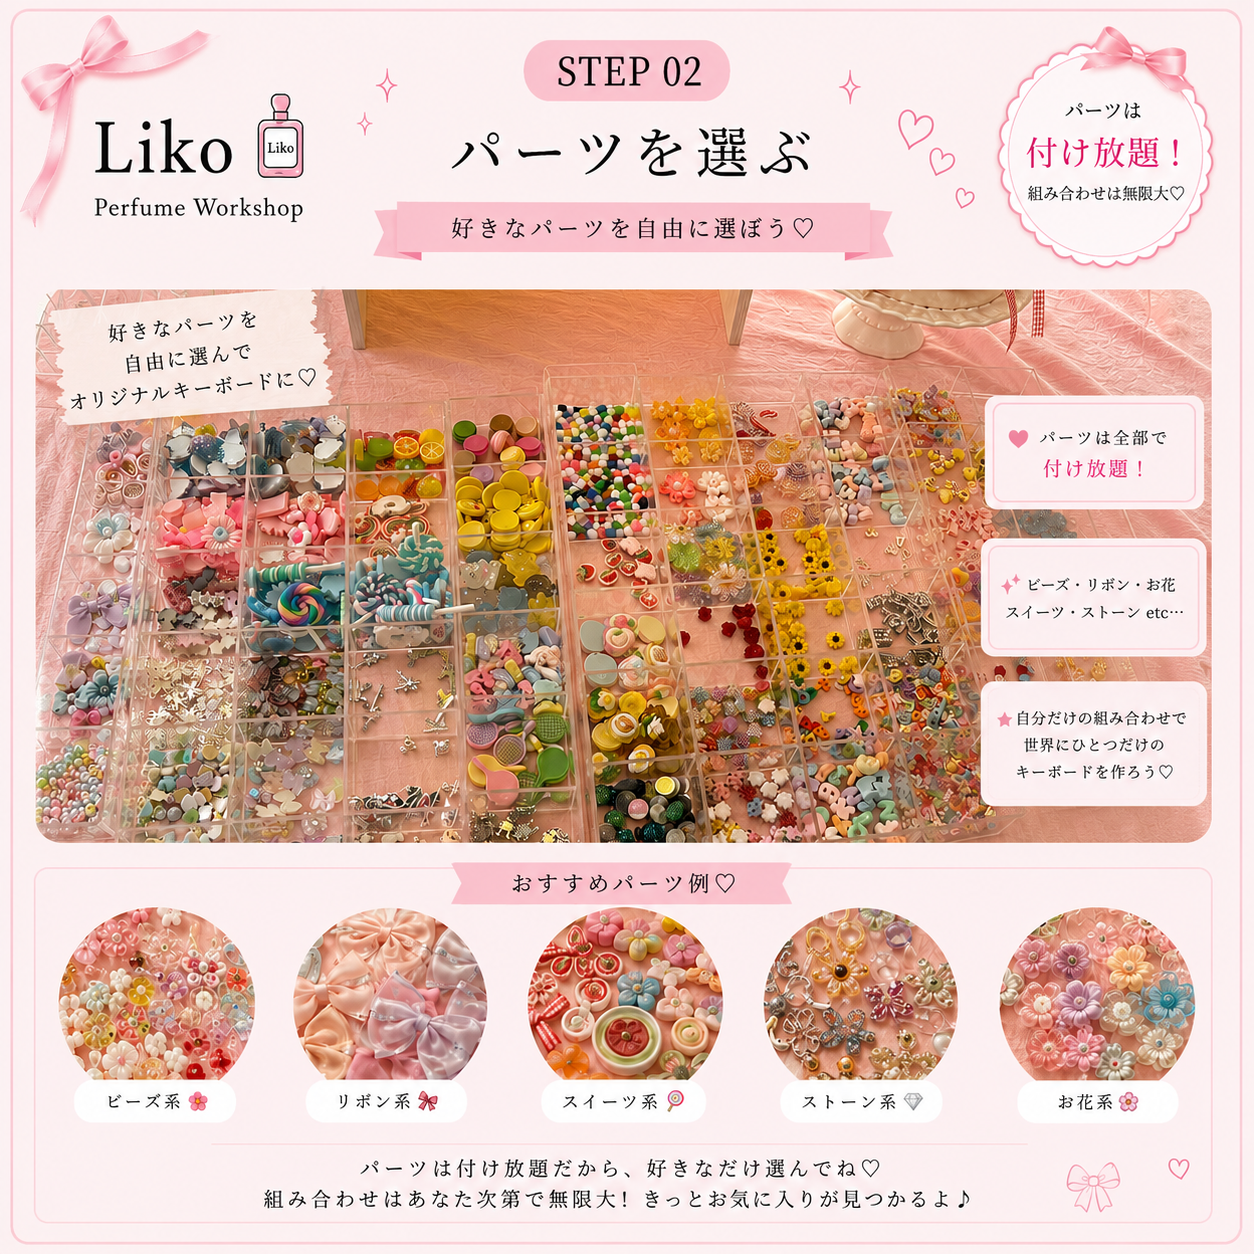
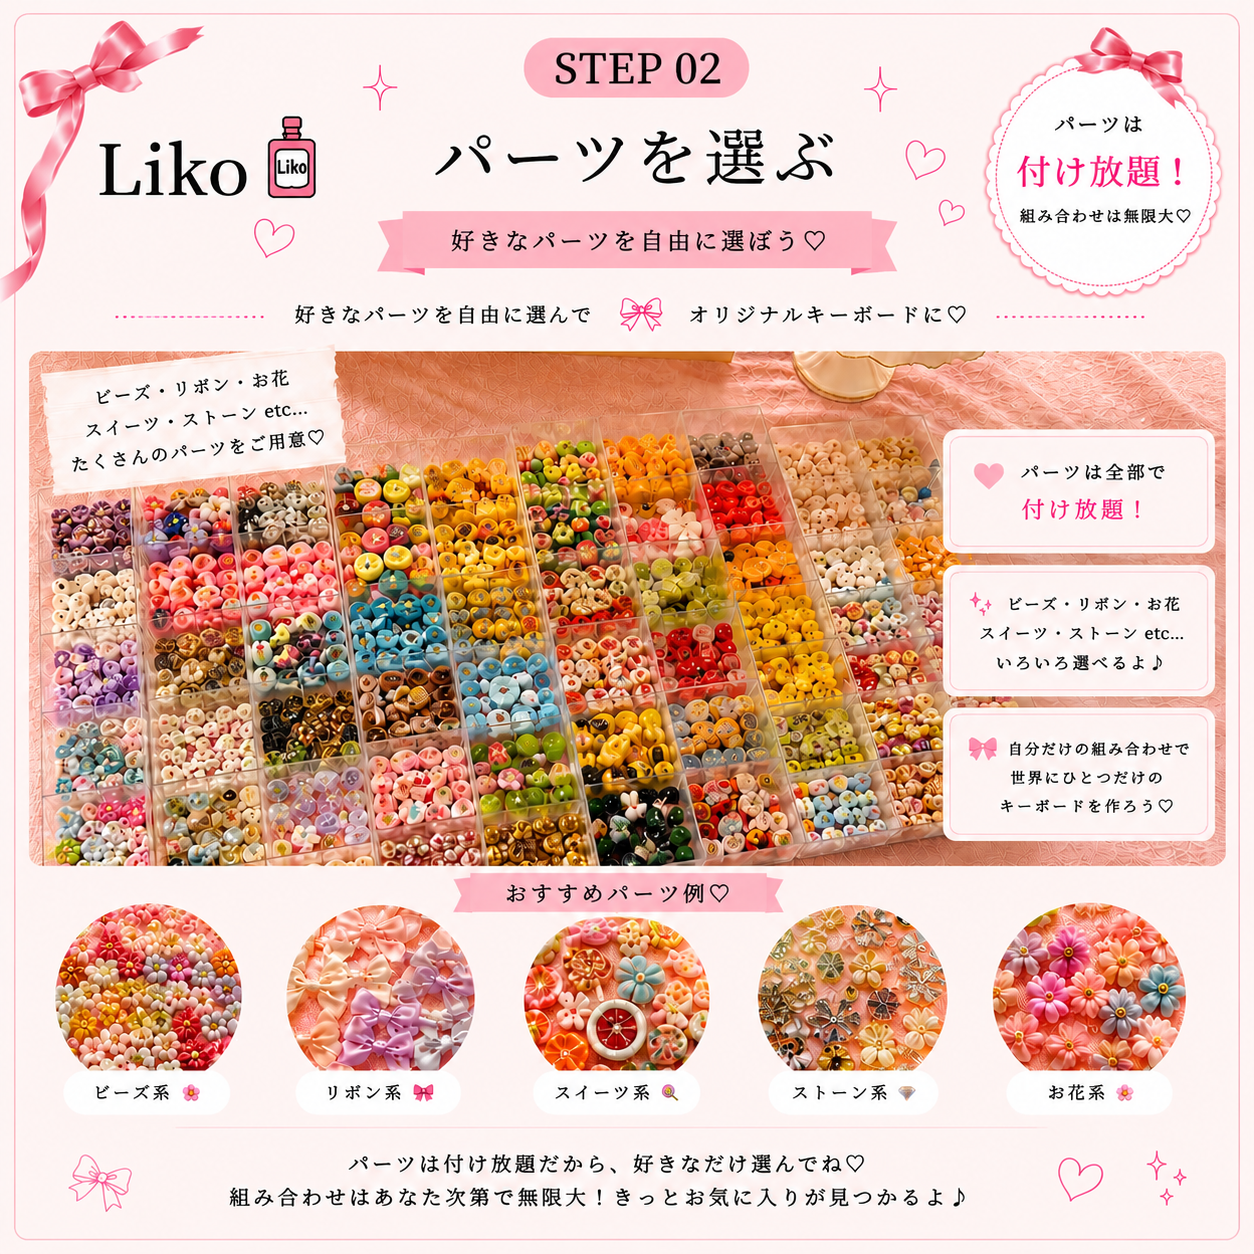
クライアント要望: パーツのみ購入ガイド=1枚絵・渋谷2号現金不可・持ち込みメガネ1500円プラン・キーボード2プラン化(1個500/4個1500)

diff --git a/index.html b/index.html
@@ -294,7 +294,8 @@ const ACTIVITIES = [
      {name:"一般プラン",       price:2500, imgKey:"ippan"},
      {name:"学割プラン",       price:2000, imgKey:"gakusei"},
      {name:"付け放題プラン",   price:3500, imgKey:"tsukehodai", hot:true},
-     {name:"パーツのみ購入",   price:1500, imgKey:"ippan", note:"お好きなパーツを20個お選びいただけます"},
+     {name:"パーツのみ購入",   price:1500, note:"お好きなパーツを20個お選びいただけます",
+      guideImgs:["parts_only"]},   // ガイド＝クライアント製「パーツのみの購入」1枚絵
    ]},
   {id:"flower",   name:"枯れないお花購入",         icon:"ti-flower",    time:"約15分",
    imgFamily:"flower", steps:3,
@@ -321,7 +322,10 @@ const ACTIVITIES = [
   {id:"keyboard", name:"カスタムキーボード",       icon:"ti-keyboard",  time:"約45分",
    imgFamily:"keyboard", steps:3,
    plans:[
-     {name:"一般プラン", price:500, note:"パーツ付け放題"},
+     {name:"1個プラン", price:500,  note:"パーツ付け放題",
+      guideImgs:["keyboard1_step01","keyboard_step02","keyboard1_step03"]},
+     {name:"4個プラン", price:1500, note:"パーツ付け放題",
+      guideImgs:["keyboard4_step01","keyboard_step02","keyboard4_step03"]},
    ]},
   {id:"ring",     name:"コインリング",             icon:"ti-ring",      time:"約40分・スタッフと一緒に",
    staffOnly:true},
@@ -335,6 +339,8 @@ const ACTIVITIES = [
    imgFamily:"glasses", steps:4,
    plans:[
      {name:"一般プラン", price:3500},
+     {name:"お持ち込みメガネ・サングラス", price:1500, note:"お持ち込みのメガネ・サングラスをカスタムできます",
+      guideImgs:["glasses_bring_step01","glasses_bring_step02","glasses_bring_step03"]},
    ]},
   {id:"perfume",  name:"香りづくり体験",           icon:"ti-flask",     time:"約25分",
    imgFamily:"perfume", steps:5,
@@ -377,7 +383,7 @@ const STORES = [
    gmap:GM("キャンバスアートリコ+祇園店")},
   {name:"渋谷",             area:"東京", staff:"none",    offers:["snake"],
    gmap:GM("Liko渋谷店")},
-  {name:"渋谷2号",          area:"東京", staff:"none",    offers:["snake"],
+  {name:"渋谷2号",          area:"東京", staff:"none",    offers:["snake"], noCash:true,
    gmap:GM("キャンバスアートリコ+渋谷2号店")},
   {name:"名古屋栄",         area:"愛知", staff:"none",    offers:["flower","snake"],
    gmap:GM("キャンバスアートリコ+名古屋栄店")},
@@ -427,7 +433,18 @@ const priceLabel = p => p.priceText || ('¥' + p.price.toLocaleString());
    bracelet=スネークブレスレット（プラン別3セット×4step）／accessory=チェーンアクセ（2セット×4step）／
    beads=アイロンビーズ（step1のみ60min/180minの2種＋共通step2〜5）／glasses=メガネ4step／custom=カスタムグッズ3step。
    セットが無い体験はプレースホルダー＋テキストにフォールバック */
-function guideImgSrc(step){  // step: 1〜stepsOf(activity)
+/* ガイドの総ステップ数：プランが専用画像リスト（guideImgs）を持つ場合はその枚数が優先 */
+function guideTotal(){
+  if(state.plan && state.plan.guideImgs) return state.plan.guideImgs.length;
+  return stepsOf(state.activity);
+}
+
+function guideImgSrc(step){  // step: 1〜guideTotal()
+  // プラン専用のガイド画像（例：パーツのみ購入＝1枚絵／キーボード1個・4個／持ち込みメガネ）
+  if(state.plan && state.plan.guideImgs){
+    const n = state.plan.guideImgs[step-1];
+    return n ? `assets/${n}.png` : null;
+  }
   const a = state.activity;
   if(!a || !a.imgFamily || step > stepsOf(a)) return null;
   const fam = a.imgFamily;
@@ -633,7 +650,7 @@ function renderFee(){
 
 /* ====== 制作ガイド（ステップ数は体験ごと） ====== */
 function renderGuide(){
-  const total = stepsOf(state.activity);
+  const total = guideTotal();
   document.getElementById('guideDots').innerHTML =
     Array.from({length: total}, (_,i)=>`<span class="dot ${i<=state.guideStep?'on':''}"></span>`).join('')
     + `<span style="margin-left:6px">ステップ ${state.guideStep+1} / ${total}</span>`;
@@ -656,7 +673,7 @@ function renderGuide(){
   saveProgress();
 }
 function guideNext(){
-  if(state.guideStep < stepsOf(state.activity)-1){ state.guideStep++; renderGuide(); }
+  if(state.guideStep < guideTotal()-1){ state.guideStep++; renderGuide(); }
   else{ go('review'); }  // 作り終わったら口コミ誘導（会計前）→ お会計
 }
 function guidePrev(){
